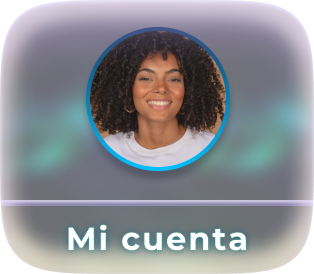
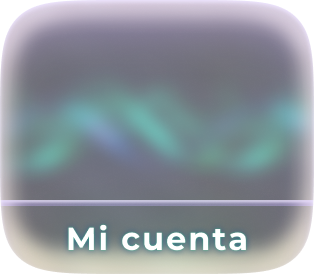
Feat: add new skin v20

Changed region(s): [[0.258, 0.0876, 0.7452, 0.6423]]

diff --git a/src/react-components/layout/FloatingIconColumns.js b/src/react-components/layout/FloatingIconColumns.js
@@ -2,6 +2,7 @@ import React, { useState } from "react";
 import styles from "./FloatingIconColumns.scss";
 import { AppLogo } from "../misc/AppLogo";
 import { WebPageUrlModalContainer } from "../room/WebPageUrlModalContainer";
+import { ReactComponent as AvatarIcon } from "../icons/Avatar.svg";
 import asistente from "../../assets/newSkin/asistente.png";
 import calendario from "../../assets/newSkin/calendario.png";
 import carrito from "../../assets/newSkin/carrito.png";
@@ -29,11 +30,12 @@ const RIGHT_ICONS = [
   { size: "large",  src: cuenta,     alt: "Cuenta", iframeUrl: "https://spacemall.es/mi-perfil/", iframeTitle: "Mi cuenta" },
 ];
 
-function FloatingIcon({ size, src, alt, onClick, badge }) {
+function FloatingIcon({ size, src, alt, onClick, badge, overlay }) {
   return (
     <button className={`${styles.iconBtn} ${styles[size]}`} title={alt} onClick={onClick}>
       <img src={src} alt={alt} />
       {badge != null && <span className={styles.iconBadge}>{badge}</span>}
+      {overlay && <span className={styles.iconOverlay}>{overlay}</span>}
     </button>
   );
 }
@@ -120,7 +122,14 @@ export function FloatingIconColumns({ scene, showNonHistoriedDialog, onPersonasC
         {/* Icon column */}
         <div className={`${styles.column} ${styles.right} ${rightOpen ? styles.columnOpen : ""}`}>
           {RIGHT_ICONS.map((icon, i) => (
-            <FloatingIcon key={i} size={icon.size} src={icon.src} alt={icon.alt} onClick={() => handleIconClick(icon)} />
+            <FloatingIcon
+              key={i}
+              size={icon.size}
+              src={icon.src}
+              alt={icon.alt}
+              onClick={() => handleIconClick(icon)}
+              overlay={icon.alt === "Cuenta" ? <AvatarIcon className={styles.iconOverlaySvg} /> : undefined}
+            />
           ))}
         </div>
       </div>

diff --git a/src/react-components/layout/FloatingIconColumns.scss b/src/react-components/layout/FloatingIconColumns.scss
@@ -159,6 +159,22 @@
   }
 }
 
+:local(.icon-overlay) {
+  position: absolute;
+  top: 50%;
+  left: 50%;
+  transform: translate(-50%, -50%);
+  pointer-events: none;
+  display: flex;
+  align-items: center;
+  justify-content: center;
+}
+
+:local(.icon-overlay-svg) {
+  width: 28px;
+  height: 28px;
+}
+
 :local(.icon-badge) {
   position: absolute;
   top: 84%;
